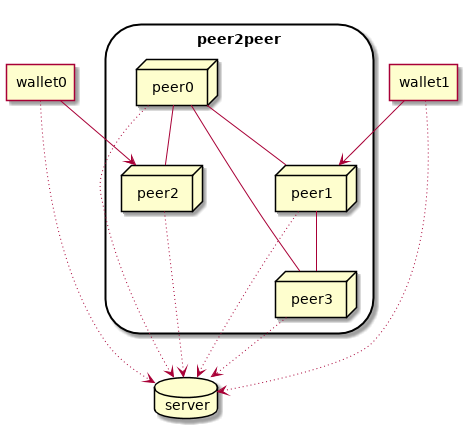
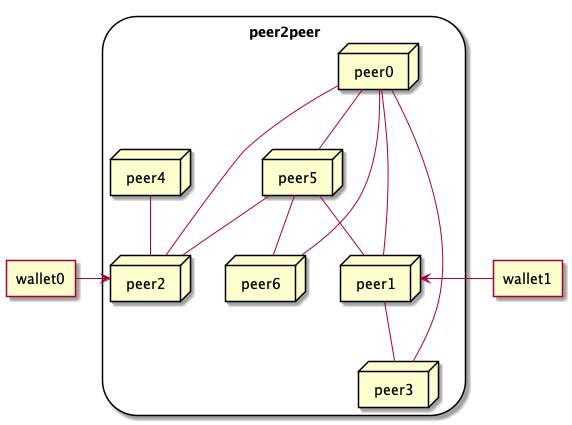
Creation of documentation and diagrams.

diff --git a/doc/latex/relazione.tex b/doc/latex/relazione.tex
@@ -1,12 +1,18 @@
 \documentclass[a4paper,10pt]{report}
 \usepackage[T1]{fontenc}
 \usepackage{framed}
+\usepackage{lmodern}
+\usepackage{textcomp}
 \usepackage{graphicx}
-\usepackage[utf8]{inputenc}
+\usepackage[utf8x]{inputenc}
 \usepackage[italian, english]{babel}
 \usepackage{geometry,setspace,listings,graphicx,lettrine,float,hyperref,eurosym,fancyhdr,booktabs,bookmark,titling}
 \usepackage[dvipsnames]{xcolor}
-
+\usepackage{listings}
+\lstset{
+  language=bash,
+  basicstyle=\ttfamily
+}
 \graphicspath{ {../images/} }
 
 \renewcommand*\footnoterule{}
@@ -43,9 +49,7 @@
       \end{center}
     \end{figure}
     \vspace{35mm}
-    \textbf{Vittorio FONES 0124/1384}
-    
-    \textbf{Vittorio ZAVINO 0124/1241}\\
+    \textbf{Vittorio FONES 0124001384}
     \vspace{5mm}
 
     \large{A. A. 20018-2019}
@@ -55,76 +59,91 @@
 
 
   \tableofcontents
-  \listoftables
   \listoffigures
-  \lstlistoflistings
 
   \chapter{Descrizione del progetto}
   \pagenumbering{arabic}
-  
-  \lettrine[lraise=0.1]{C }on il seguente elaborato illustriamo il lavoro svolto per la realizzazione del progetto Bitcoin, il cui scopo è quello di creare una rete peer to peer usata per la gestione di una blockchain e l'utilizzo della stessa. Il progetto è stato sviluppato nel linguaggio C, attenendoci allo standard Posix come illustrato durante il corso e sul libro GAPIL: per l'appunto il software gira anche sotto piattaforma Mac OS, oltre che su distrubuzioni Linux quali Debian e Arch Linux.\newline Di seguito viene allegata l'introduzione della traccia sviluppata:
-  \begin{framed} Si vuole realizzare un sistema per la gestione di una criptovaluta basato su una rete P2P. Il sistema è basato sulla gestione di una blockchain, ovvero una sequenza di blocchi in cui ogni blocco contiene una transazione. Il sistema si compone di due tipi di nodi: NodiN e NodiW. I NodiN creano la rete P2P e gestiscono la blockchain. Inoltre stampano la blockchain ogni volta che viene aggiunto un blocco: (blocco 1 )- > (blocco 2 )- > (blocco 3 )- > (blocco 4 ). I NodiW gestiscono i wallet (portafogli virtuali) che consentono di inviare e ricevere pagamenti. Ad ogni nuovo pagamento inviato o ricevuto il nodo stampa la transazione ed il totale del portafogli. 
-\end{framed}
-Da adesso in avanti, i nodiN e nodiW saranno definiti rispettivamente \textbf{peer} e \textbf{wallet}.
-\\ Seguendo poi la descrizione dettagliata abbiamo considerato l'accoppiata [IP:porta], definita da adesso in poi come net_ent, che i wallet utilizzano per connettersi ai peer, come loro identificativo nelle transazioni.\\
-Mentre come ID di una transazione si è usata una stringa univoca fornita da una apposita funzione, consistente nella concatenazione del time_stamp, net_ent mittente(src), net_ent(dst) e ammount della transazione. 
+	\lettrine[lraise=0.1]{C }on il seguente elaborato si intende illustrare il lavoro svolto per la realizzazione del progetto Bitcoin, il cui scopo è quello di creare una rete peer to peer usata per la gestione di una blockchain e l'utilizzo della stessa. Il progetto è stato sviluppato nel linguaggio C, attenendosi allo standard Posix come illustrato durante il corso e sul libro GAPIL: per l'appunto il software gira anche sotto piattaforma Mac OS, oltre che su distribuzioni Linux quali Debian e Arch Linux. \newline \newline Di seguito viene allegata l'introduzione della traccia sviluppata: \begin{framed} Si vuole realizzare un sistema per la gestione di una criptovaluta basato su una rete P2P. Il sistema è basato sulla gestione di una blockchain, ovvero una sequenza di blocchi in cui ogni blocco contiene una transazione. Il sistema si compone di due tipi di nodi: NodiN e NodiW. I NodiN creano la rete P2P e gestiscono la blockchain. Inoltre stampano la blockchain ogni volta che viene aggiunto un blocco: (blocco 1)-> (blocco 2)-> (blocco 3)-> (blocco 4). I NodiW gestiscono i wallet (portafogli virtuali) che consentono di inviare e ricevere pagamenti. Ad ogni nuovo pagamento inviato o ricevuto il nodo stampa la transazione ed il totale del portafogli. \end{framed}
+	Per evitare qualunque tipo di problema d'ora in avanti i nodi\_w verranno chiamati semplicemente wallet.
 
   \chapter{Descrizione e schemi dell'architettura}
-  Attraverso l'utilizzo di un server centrale si è deciso di implementare una rete P2P Hybrid Decentralized.
-\\Quindi i nodiN e i nod
-\\Un peer, ovvero un nodoN, per entrare nella rete chiederà al server principale di fornigli ip e porta di altri peer e tenterà l'aggancio a loro. In modo simile il wallet, ovvero il nodoW, si collegherà alla rete dopo che il server principale gli fornirà l'ip e porta del peer a cui connettersi. Ovviamente tale funzionalità di aggancio viene sfruttata qualora un peer o un wallet dovessero crashare.
-È stato scelto di non mantenere informazioni specifiche della rete quali la struttura del grafo per cercare di portare avanti l'ideale di decentralizzazione dell'informazione. Questa archittetura non è esente da problemi, infatti un eventuale crash improvviso del server porta ad uno stato di disordine della rete ed ad un decadimento della stessa. Per tale motivo la chiusura del server principale da parte del 'sistemista' fa chiudere in maniera pulita tutti i peer e wallet associati.
+	Per creare la rete si è deciso di non adottare entità esterne, che seppure fossero venute in aiuto per l'automatizzazione della stessa rete, avrebbe reso il concetto di cryptovaluta meno reale, andando a rendere semi-centralizzata o peggio la rete peer to peer. Nonostante ciò si è cercato di non andare oltre la traccia, per cui tutti i casi reali quali il mining, la cifratura, creazione di hash e validificazione dei blocchi e altro, non sono stati presi in cosiderazione.\newline
+	La rete peer to peer è composta dai nodi\_n che nel loro insieme formano una rete decentralizzata. Ogni nodo ha un pannello di controllo in cui è possibile interfacciarsi con altri nodi e vedere lo stato delle proprie attività, tra cui la blockchain al momento. A questi verranno poi connessi i nodi\_n: una volta collegato ad un nodo\_n, un wallet potrà effettuare movimenti di BitCoin, sarà poi il nodo\_n che provvederà a creare il blocco e diffonderlo.
+
   \begin{figure}[H]
   \center\includegraphics[scale=0.50]{arch.png}
   \caption{Architettura di sistema.}
   \end{figure}
-  
 
- 
   \chapter{Descrizione e schemi del protocollo applicazione}
   Di seguito sono riportati gli schemi dei principali protocolli applicazione.
-  \section{Primo aggancio e creazione della rete}
-  Per creare la rete Peer to Peer sarà necessario lanciare il server che è in perenne attesa di codici hash crittografati con hash256. Autentificati, i client, verrano risposti con un numero di peer a cui collegarsi e da i rispettivi indirizzi ip e porte. Il server a seguito di una risposta positiva salverà il peer nella propria lista, in modo da poter aumentare l'espasione del grafo.
- Un nodo peer correttamente agganciato ad un suo simile, avvierà una procedura di sincronizzazione della blochchain.
+  \section{Primo aggancio, scarico blockchain e flooding}
+Per capire meglio lo scenario illustrato, definiamo un Nodo\_0, un Nodo\_N, X Nodi e un wallet. Al Nodo\_N viene fatta richiesta di aggancio da parte del Nodo\_0, connesso a sua volta con X nodi e un wallet.\newline Inviando un tipo definito da programma, \textbf{request\_t}, il Nodo\_0 richiede al Nodo\_N di entrare a far parte della rete. A seguire i due Nodi si invieranno i size delle rispettive blockchain \textbf{locali}, in tal modo i due sapranno chi dovrà ricevere e chi dovrà inviare i blocchi. Ad ogni ricezione di un nuovo blocco verrà prontamente diffuso ai nodi X connessi e nel caso, al wallet.
   \begin{figure}[H]
   \center\includegraphics[scale=0.40]{hookpeer.png}
-  \caption{Aggancio peer.}
+  \caption{Aggancio nodo.}
   \end{figure}
-  
+	\newpage
   \section{Aggancio wallet.}
-  La procedura dell'aggancio del wallet è in parte simile a quella del peer. Dopo l'autentificazione con il server e ricevuto il peer, il wallet si connetterà a quest'ultimo, mentre il peer lo inserirà nella propria lista.
+  La procedura dell'aggancio del wallet è più semplice in quanto il wallet invierà al nodo scelto una richiesta del tipo \textbf{request\_t} e in caso di disponibilità il nodo invierà un intero a conferma di avvenuta connessione.
+
   \begin{figure}[H]
   \center\includegraphics[scale=0.40]{hookwallet.png}
   \caption{Aggancio wallet.}
   \end{figure}
-  
-  
+
+	\section{Invio transazione}
+	Dopo aver opportunamente creato una transazione, il wallet provvederà a mandarla al peer a cui è connesso. A seguito di una conferma, il nodo, aggiungerà alla blockchain il blocco appena creato contentente la transazione e provvederà ad inviare a tutti i peer della rete a cui è connesso il blocco.
+
+	\begin{figure}[H]
+	\center\includegraphics[scale=0.40]{newtransaction.png}
+	\caption{Invio transazione.}
+	\end{figure}
+
+
   \chapter{Dettagli implementativi}
-    
-
-    \section{Dettagli del server}\noindent
-Il server è stato scelto di implementarlo come un normale server iterativo: ogni richiesta verrà evasa al termine della precedente garantendo la creazione della rete in maniera omogenea.
-
-
- 
-n Per la realizazione di ogni applicativo si è optato per protocolli TCP/IP e Socket di Berkley. Particolare importanza è stata data alla struttura del progetto che è reso modulare tramite le opportune librerie, indipendenti ed usabili per altri scopi.
-
-    \section{Dettagli del peer}\noindent
- I peer poiché devono spedire i vari blocchi, controllare la validità degli stessi, servire le richieste di bilancio e di transazione dei wallet, sono stati implementati secondo uno schema I/O Multiplexing che usa i thread posix della libreria pthread. Essendo il cuore portate della rete un peer è composto da due parti: un server che permette ai vari thread di connettersi attraverso la propria porta di servizio, scelta da riga di comando, ed un client.
-Per ovviare ai relativi problemi dovuti all'accesso concorrente alla lista si è scelto di sincronizzare i thread tramite mutex, e semafori binari: tale schema ricorda il paradigma dei Lettori/Scrittori.
+	Per la realizazione di ogni applicativo si è optato per protocolli TCP/IP e Socket di Berkley.
+    \section{Dettagli del nodo}\noindent
+	I nodi poiché devono spedire i vari blocchi, controllare l'arrivo di nuovi, servire le richieste di connessione e di transazione dei wallet, sono stati implementati secondo uno schema \textbf{I/O Multiplexing} che usa i thread posix della libreria pthread. In particolar modo ad ogni nuova connessione verrà creato un thread che userà a sua volta uno schema I/O Multiplexing. In tal modo un nodo che vuole connettersi ad un peer della rete avrà un thread a gestirgli la connessione, mentre ne avrà \textsc{n} in relazione a quante connessioni avrà ricevuto.\newline
+	Per ovviare ai relativi problemi dovuti all’accesso concorrente alla blockchain si è scelto di sincronizzare i thread tramite \textbf{lock rw} disponibili nella libreria \textsc{pthread.h}.
 
     \section{Dettagli del wallet}\noindent
-    
- I nodi wallet dovendo gestire input da tastiera e l'arrivo dalla rete di richieste dal peer connesso, si è deciso di implementarlo con uno schema I/O Multiplexing.
 
-    
+ I nodi wallet dovendo gestire input da tastiera e l'arrivo dalla rete di richieste dal peer connesso, si è deciso di implementarlo con uno schema I/O Multiplexing come nel caso precedente con la differenza che saranno processi del tutto iterativi, bloccandosi nel caso ci sia attesa dovuta alla connessione.
 
   \chapter{Manuale utente}
+	Il progetto è stato strutturato nel seguente modo: nella cartella src ci saranno i file .c e .h dei due processi sotto opportune cartelle. Nella cartella include vi sono gli header file delle librerie, che si trovano invece nella cartella src. Nella cartella lib viene creata anche la cartella static contentente la libreria statica per il corrispettivo sistema operativo.
+	\begin{figure}[H]
+  \center\includegraphics[scale=0.40]{dirs.png}
+  \end{figure}
 
-  \section{Instruzioni per la compilazione}\noindent
 
 
 
-  \section{Instruzioni per l'esecuzione}\noindent
+\section{Instruzioni per la compilazione}\noindent	Per la creazione dei file eseguibili si è scelto di affidarsi al software CMake che genera automaticamente il make file.
+Per cui basterà creare la cartella build e spostarvici all'interno:
+\begin{lstlisting}
+$ mkdir build && cd build
+\end{lstlisting}
+Lanciare cmake con il comando:
 
+\begin{lstlisting}
+$ cmake ..
+\end{lstlisting}
+A seguito della creazione, lanciare make:
+
+\begin{lstlisting}
+$ make
+\end{lstlisting}
+A questo punto nella directory bin saranno presenti i file eseguibili.
+\section{Instruzioni per l'esecuzione}\noindent
+Per avviare i programmi basterà spostarsi nella cartella bin, e avviare N processi n\_node, e a seguito i processi w\_node. Poiché i processi w\_node si connetteranno alla rete peer to peer tramite opzione da riga di comando andranno eseguiti prima i processi n\_node.
+Poiché si presuppone che un ipotetico firewall sia abilitato e che i processi possano essere raggiunti tramite il loro indirizzo pubblico, l'unica opzione attivabile è quella per esporre la porta.
+\begin{lstlisting}
+$ n_node -p 5555
+\end{lstlisting}
+I wallet invece possono anche selezionare un indirizzo IP oltre che la porta a cui connettersi. Per motivi pratici è stata aggiunta come opzione facoltativa, per cui:
+\begin{lstlisting}
+$ w_node -p 5555
+\end{lstlisting}
 \end{document}
